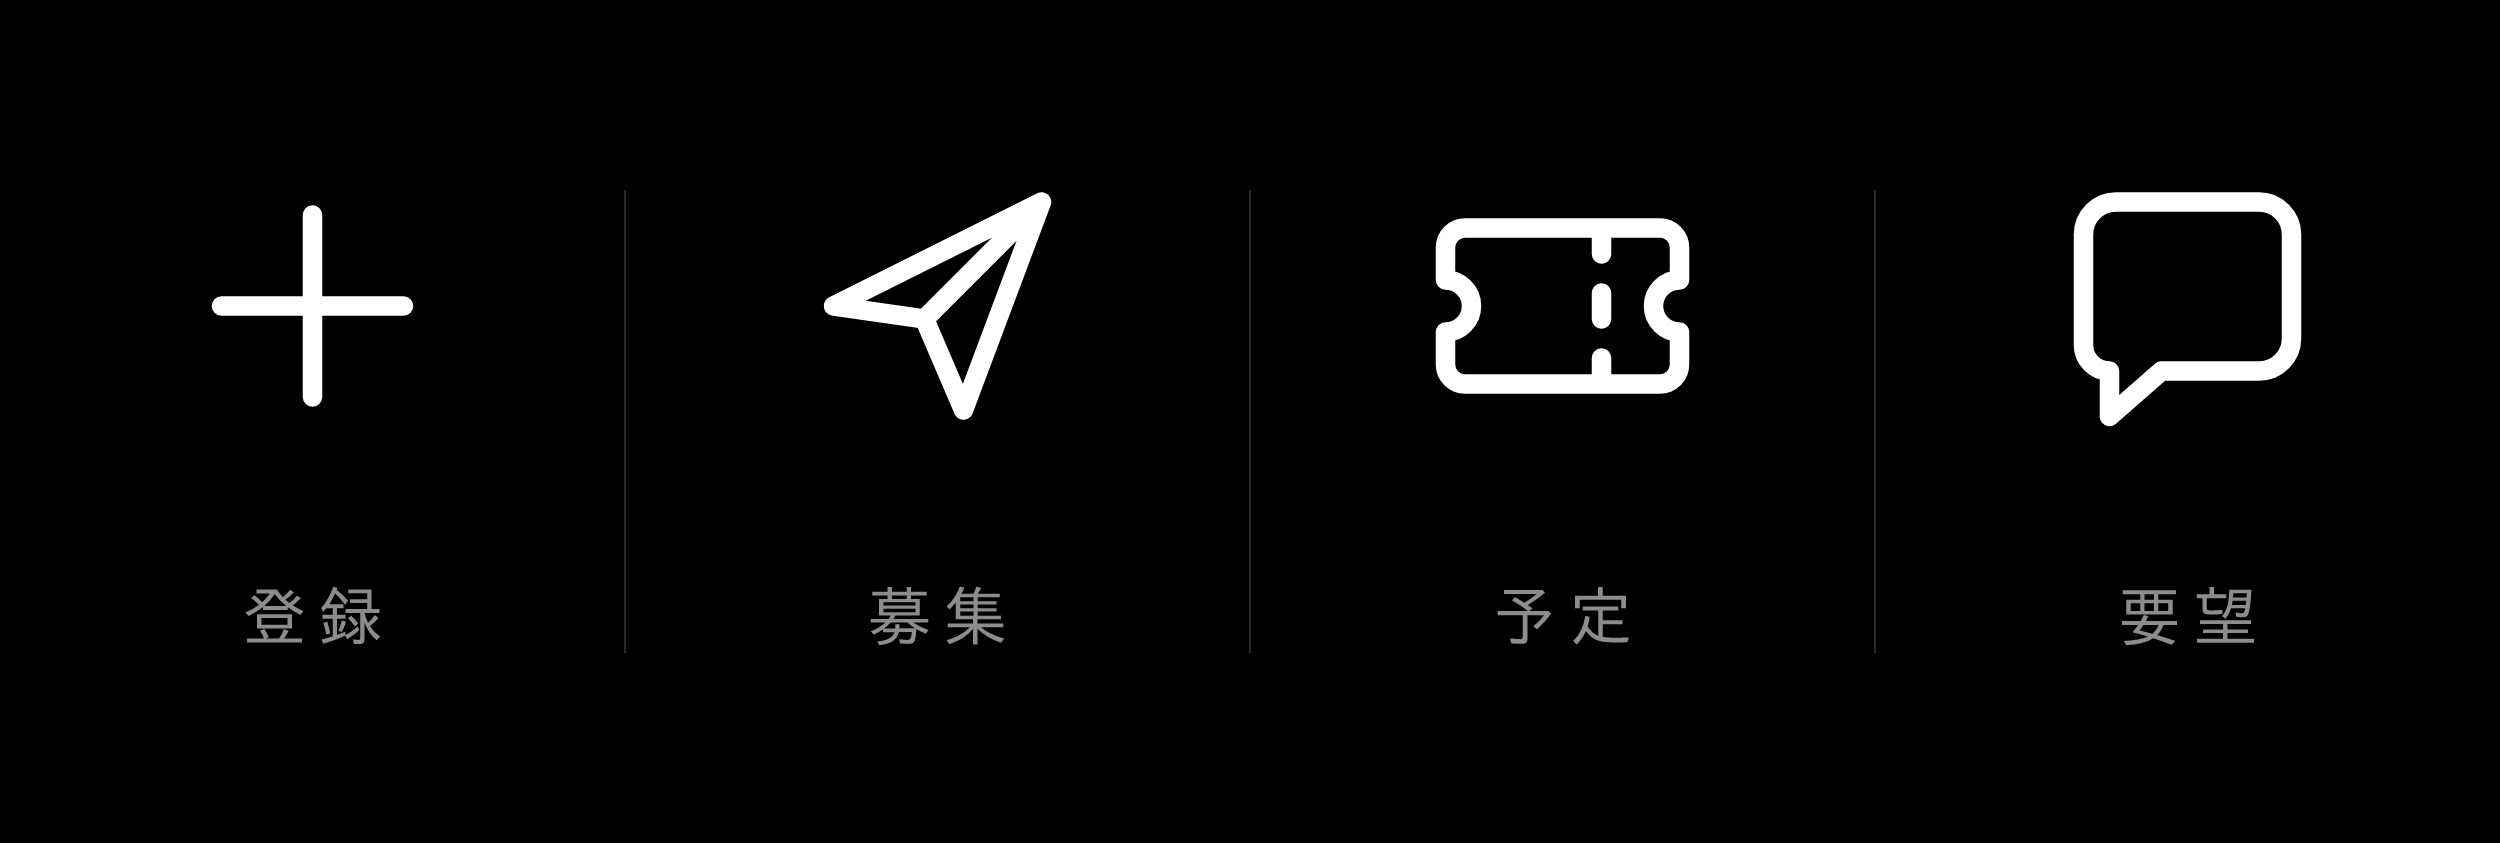
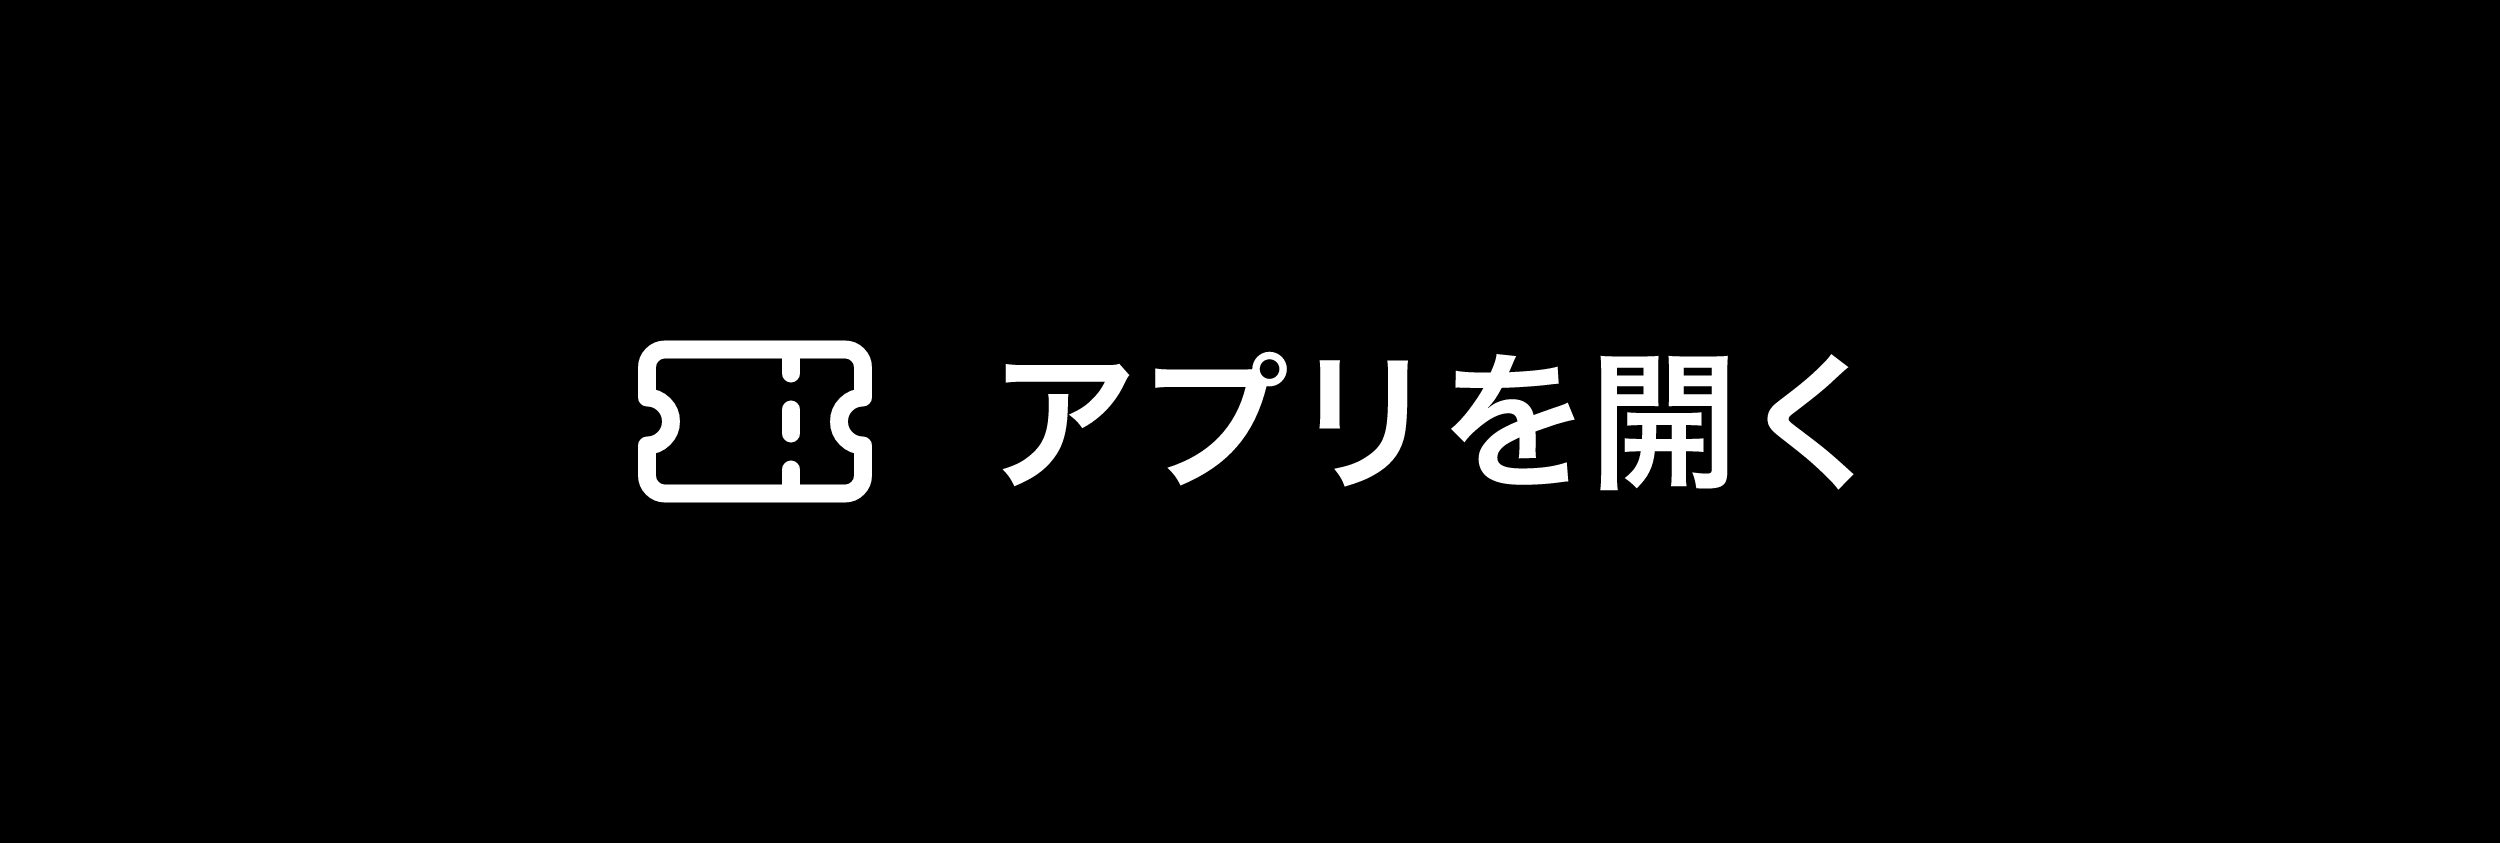
feat: 個別トークのメニューを「アプリを開く」ボタン1つにする
登録・募集・予定・要望はアプリ下のナビから選べるので、メニューはアプリのトップを開くボタンだけにして迷わないようにする。定義を全面1エリアに、画像をアイコンと「アプリを開く」の1ボタンに作り直し、案内文と手順書を合わせて直す。

diff --git a/apps/gas/src/app/richmenu.ts b/apps/gas/src/app/richmenu.ts
@@ -1,26 +1,13 @@
-/** Botとの個別トークの下に出すメニュー（リッチメニュー）。画像は scripts/richmenu.mjs で作る 2500×843・4分割 */
-import { appLink } from '@studio-attendance/shared';
-
+/** Botとの個別トークの下に出すメニュー（リッチメニュー）。画像は scripts/richmenu.mjs で作る 2500×843・ボタン1つ */
 export const RICH_MENU_SIZE = { width: 2500, height: 843 };
 
-/** 各ボタンで開くアプリの画面（LIFF の ?view=） */
-export const RICH_MENU_VIEWS = [
-  { view: 'register', label: '登録' },
-  { view: 'recruit', label: '募集' },
-  { view: 'mine', label: '予定' },
-  { view: 'feedback', label: '要望' },
-] as const;
-
+/** 全面が1つのボタンで、アプリのトップ（練習の一覧）を開く */
 export function richMenuDefinition(appUrl: string) {
-  const w = RICH_MENU_SIZE.width / RICH_MENU_VIEWS.length;
   return {
     size: RICH_MENU_SIZE,
     selected: true,
     name: 'スタジオ練出欠管理 メニュー',
-    chatBarText: 'メニュー',
-    areas: RICH_MENU_VIEWS.map((v, i) => ({
-      bounds: { x: Math.round(i * w), y: 0, width: Math.round(w), height: RICH_MENU_SIZE.height },
-      action: { type: 'uri', label: v.label, uri: appLink(appUrl, { view: v.view }) },
-    })),
+    chatBarText: 'アプリを開く',
+    areas: [{ bounds: { x: 0, y: 0, ...RICH_MENU_SIZE }, action: { type: 'uri', label: 'アプリを開く', uri: appUrl } }],
   };
 }

diff --git a/apps/gas/test/app.test.ts b/apps/gas/test/app.test.ts
@@ -684,17 +684,13 @@ describe('ルーター', () => {
 });
 
 describe('リッチメニュー', () => {
-  it('4つのボタンが横に並び、それぞれアプリの画面を開く', async () => {
+  it('全面が1つのボタンで、アプリのトップを開く', async () => {
     const { richMenuDefinition } = await import('../src/app/richmenu');
     const def = richMenuDefinition('https://liff.line.me/APP');
     expect(def.size).toEqual({ width: 2500, height: 843 });
-    expect(def.areas.map((a) => a.action.uri)).toEqual([
-      'https://liff.line.me/APP?view=register',
-      'https://liff.line.me/APP?view=recruit',
-      'https://liff.line.me/APP?view=mine',
-      'https://liff.line.me/APP?view=feedback',
+    expect(def.areas).toEqual([
+      { bounds: { x: 0, y: 0, width: 2500, height: 843 }, action: { type: 'uri', label: 'アプリを開く', uri: 'https://liff.line.me/APP' } },
     ]);
-    expect(def.areas.reduce((sum, a) => sum + a.bounds.width, 0)).toBe(2500);
   });
 });
 

diff --git a/docs/guide-member.md b/docs/guide-member.md
@@ -25,10 +25,10 @@
 アプリの「自分」から一覧に出る名前を変えられます。
 
 **メニュー**
-スタジオ練出欠管理（Bot）を友だち追加すると、トーク画面の下に「登録」「募集」「予定」「要望」のアイコンのボタンが出ます。
+スタジオ練出欠管理（Bot）を友だち追加すると、トーク画面の下に「アプリを開く」ボタンが出ます。登録・募集・予定・要望は、アプリの画面下のナビから選べます。
 
 **練習を登録する**
 スタジオを予約したら、誰でも登録できます。予約画面のスクショか予約内容の文章をBotに送るか、アプリの画面下の「登録」から入力してください。
 
 **改善要望**
-メニューの「要望」か、アプリのどの画面でも画面下のナビにある「要望」から、こうなったら便利・ここが使いにくい、などを送れます。送った要望は名前と一緒に管理者だけに届きます。
+アプリのどの画面でも、画面下のナビにある「要望」から、こうなったら便利・ここが使いにくい、などを送れます。送った要望は名前と一緒に管理者だけに届きます。
